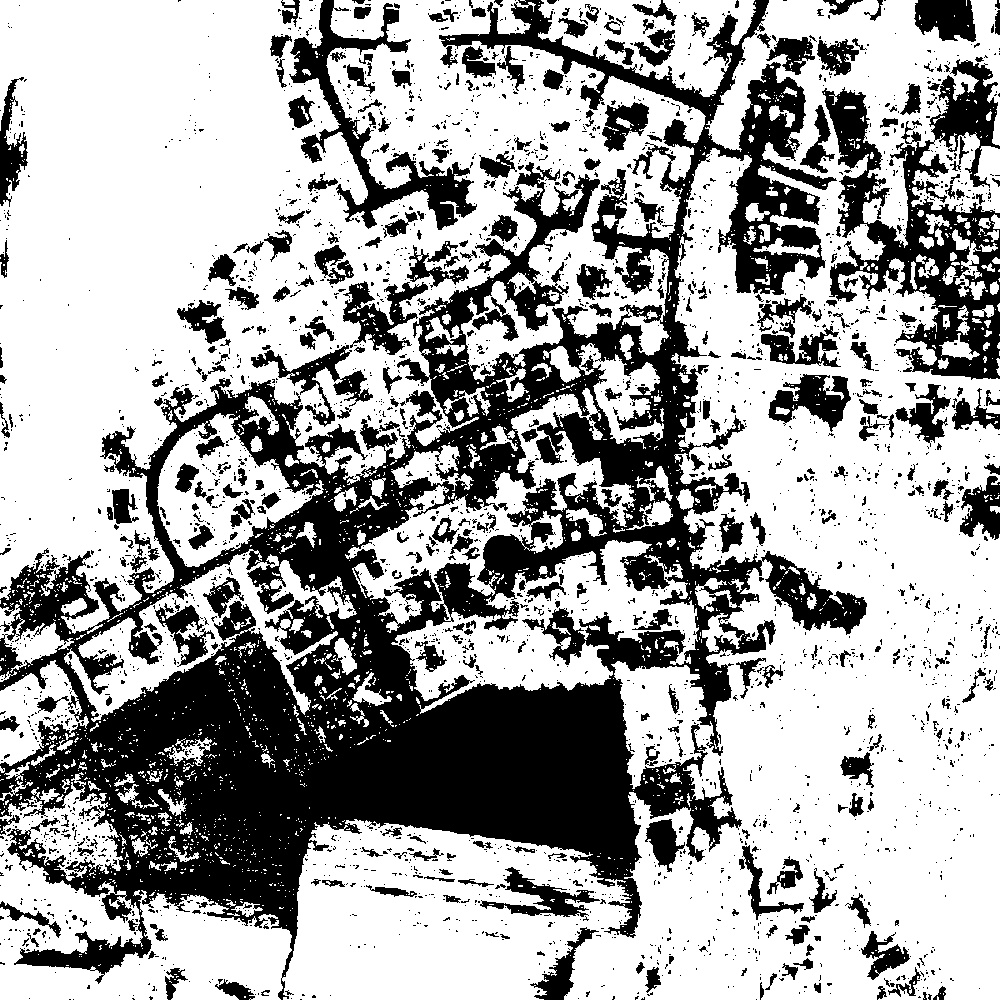
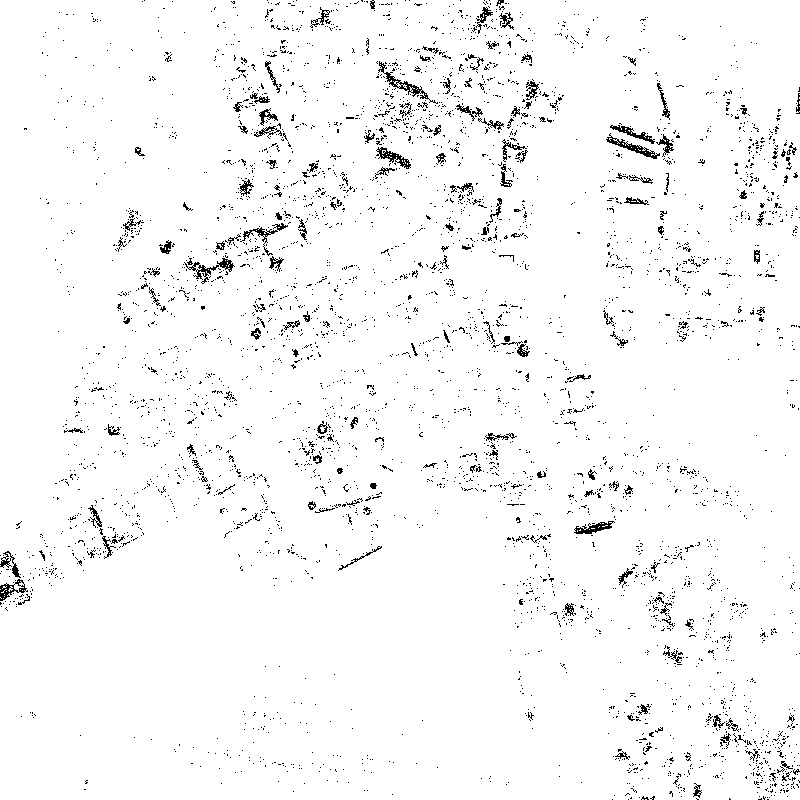
cc

diff --git a/buildingmaps2.py b/buildingmaps2.py
@@ -84,14 +84,21 @@ import cv2
 import numpy as np
 img = cv2.imread("test.tiff")
 frame = img[100:900, 100:900]
-frame1 = cv2.resize(frame,(1000,1000))
 lower_range = np.array([0,0,0])
 upper_range =np.array([255,115,255])
-mask = cv2.inRange(frame1, lower_range, upper_range)
+gray = cv2.cvtColor(frame, cv2.COLOR_BGR2GRAY)
+
+ret, thresh_img = cv2.threshold(gray,170,255,cv2.THRESH_BINARY)
+hsv = cv2.cvtColor(frame, cv2.COLOR_BGR2HSV)
+frame1 = cv2.resize(frame,(1000,1000))
+mask = cv2.inRange(hsv, lower_range, upper_range)
+
 cv2.imwrite("Test.jpg",mask)
 img2 = cv2.imread("Test.jpg")
-imgray = cv2.cvtColor(img2,cv2.COLOR_BGR2GRAY)
-ret,thresh = cv2.threshold(imgray,127,255,0)
-im2, contours = cv2.findContours(thresh,cv2.RETR_TREE,cv2.CHAIN_APPROX_SIMPLE)
-cv2.drawContours(img2, contours, -1, (0,255,0), 3)
+
+contours =  cv2.findContours(mask,cv2.RETR_TREE,cv2.CHAIN_APPROX_SIMPLE)[-2]
+'''
+img2, contours = cv2.findContours(thresh,cv2.RETR_TREE,cv2.CHAIN_APPROX_SIMPLE)
+'''
+cv2.drawContours(img, contours, -1, (0,255,0), 3)
 cv2.imwrite("Test2.jpg",img2)
